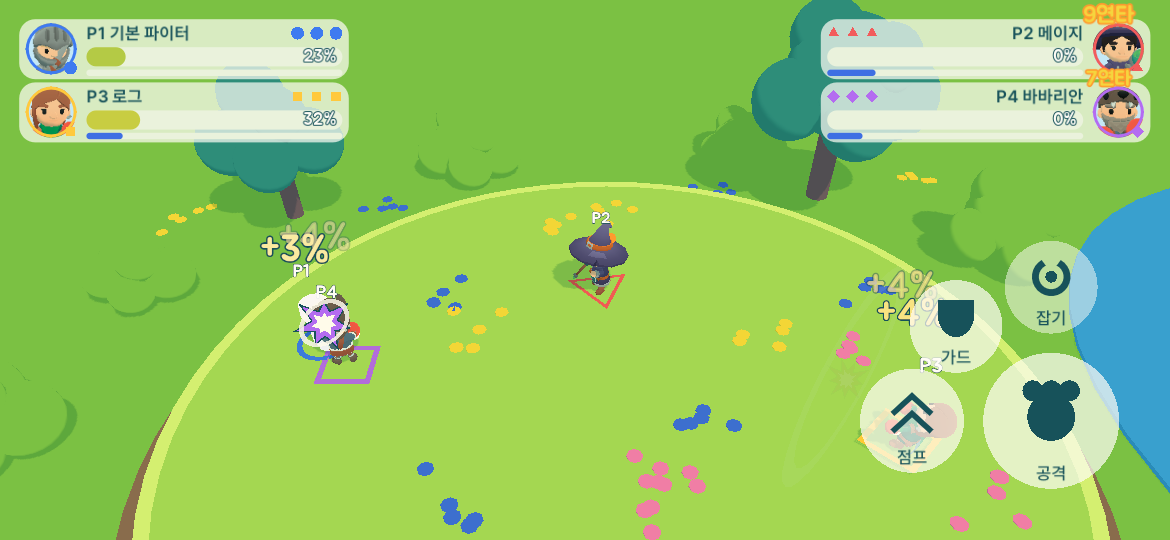
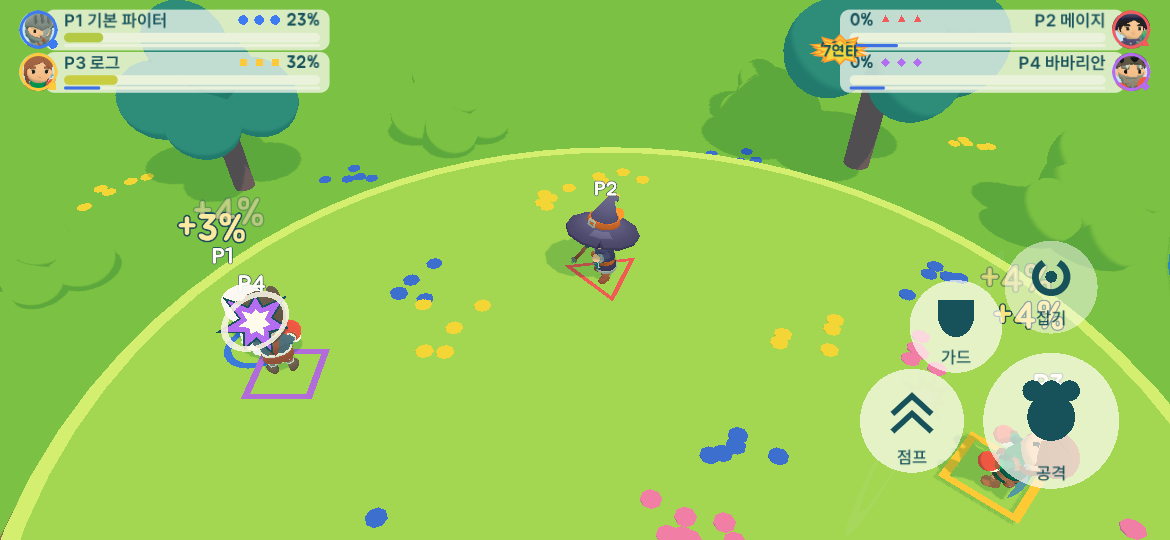
feat: slim GetAmped-style HUD strip and fight-centred framing
Cards: one line (name, pips/score, %), thick damage bar, thin gauge bar,
portrait overlapping the outer edge; vertical team tabs; strip edge gap
s3 -> the strip is ~17.6% of a 720p screen (was ~30%). Combo badge is a
small burst on the card inner corner (away from the portrait). The
camera context anchors now sit around the fight instead of the arena
centre, so fighters are centred and large in the free band; the
HudSafeFrame band math is pinned by test_hud_safe_frame.

diff --git a/docs/design.md b/docs/design.md
@@ -285,7 +285,8 @@
 
 **v2 (2026-10-01, combat-depth D — 사용자 지시, 겟앰프드 HUD 레이아웃 참고 [`references/ref-getamped-hud.png`](./references/ref-getamped-hud.png), 배치만 참고하고 그림·에셋은 우리 것)**:
 - `HudStrip`: 화면 **아래** 가장자리 스트립. 왼쪽 묶음 P1·P3, 오른쪽 묶음 P2·P4(팀전은 팀 1 왼쪽 / 팀 2 오른쪽), 묶음마다 카드 한 줄씩 세로로. 오른쪽 카드는 좌우 반전(초상이 바깥쪽). 1:1은 양쪽에 카드 하나씩
-- 팀전: 묶음 위에 "팀 1" / "팀 2" 알약(`caption`, 팀 색), 카드 테두리·배지가 팀 색
+- 얇은 스트립: 720p에서 화면 높이의 약 18% 이하(2줄 카드 + 가장자리 `s3`). 카드 = 한 줄("P1 바바리안 · 스톡/점수 · 42%", `caption`) + 굵은 대미지 바(`s3`) + 얇은 게이지 바(`s1`), 초상(`s7`)이 카드 바깥 가장자리에 겹침
+- 팀전: 묶음 바깥쪽에 세로 탭 "팀/1" · "팀/2"(`caption`, 팀 색 — 높이를 더하지 않음), 카드 테두리·배지가 팀 색
 - 시간제: 두 묶음 사이 가운데에 `MatchTimer`(시계 아이콘 + 남은 시간, DS-CMP-20)
 - 카드는 `PlayerCard`(DS-CMP-22). 스트립이 화면 폭보다 넓으면 바를 짧게(compact)
 - **터치 조작이 보이는 동안은 스트립을 위쪽 가장자리로** 옮긴다 — 아래 왼쪽 스틱·오른쪽 버튼과 겹치지 않게(줄이기보다 옮기는 쪽: 카드 글자 크기를 지킨다). 키보드 키 바(DS-CMP-16)는 스트립 반대편(데스크톱 = 위쪽)
@@ -367,7 +368,7 @@ v1 (Phase 1~5): 정보는 상단·조작은 하단, `DamageCounter`를 상단에
 | DS-CMP-18 | `CodeInput` | 6자리 인증코드 입력 | idle · focus(다음 칸 링) · error(모든 칸 `danger` 링) · disabled | 숫자 칸 6개 `code_box`(`ui_surface`, `radius_s`, 간격 `s3`), 숫자 `title` 크기 `ui_text`. 숨은 LineEdit가 입력·붙여넣기·숫자 키보드(모바일)를 받고 숫자만 최대 6자리 남긴다 | 4.0 | PRD-AUTH-01 |
 | DS-CMP-20 | `MatchTimer` · `ClockIcon` | 시간제 남은 시간 | 진행 · 마지막 10초(`danger` 글자 + 초마다 통 튐) · 서든 데스("서든 데스" `danger`) | 크림 알약(DamageCounter 판), 코드로 그린 시계(`ui_surface` 판, `ui_text` 테 `s1`, `danger` 분침), 숫자 `display_l` Jua + `canopy_deep` 외곽선 | 5 (combat-depth D) | PRD-RULE-06 |
 | DS-CMP-21 | `ScoreBadge` | 시간제 점수 (카드에서 스톡 대신) | 기본 · 변경(통 튐) · 음수(`danger`) | "3점" `title` Jua, `canopy_deep` 외곽선 | 5 (combat-depth D) | PRD-RULE-06 |
-| DS-CMP-22 | `PlayerCard` (`CardBar` · `PortraitBadge`) | HUD 스트립의 플레이어 카드 (DS-LAY-02 v2) | 기본 · KO(흐림 40%) · 팀전(팀 색 테두리) · 게이지 가득(파란 바 깜빡임) · "N연타" 배지(같은 대상 1초 안 연속 적중 2회부터, 초상 위 모서리에 통 튐) | `ui_surface` 70% `radius_m` 카드, 바깥쪽 원형 초상(`s8`, 캐릭터 머리 3D 한 번 그림 + 플레이어/팀 색 테 + 모양 배지), "P1 바바리안"(`caption`) + 스톡 점(`s4`) 또는 점수, 굵은 대미지 바(`s5`, 대미지 바 램프, % 숫자 `caption` Jua), 얇은 게이지 바(`s2`, `gauge_bar`), 연타 배지 `body` Jua `petal_yellow` + `fire` 외곽선 | 5 (combat-depth D) | PRD-UI-01, PRD-RULE-06, PRD-STYLE-04 |
+| DS-CMP-22 | `PlayerCard` (`CardBar` · `PortraitBadge`) | HUD 스트립의 플레이어 카드 (DS-LAY-02 v2) | 기본 · KO(흐림 40%) · 팀전(팀 색 테두리) · 게이지 가득(파란 바 깜빡임) · "N연타" 배지(같은 대상 1초 안 연속 적중 2회부터, 카드 안쪽 위 모서리 — 초상 반대편 — 에 통 튐, 위쪽 스트립에서는 아래 모서리) | `ui_surface` 70% `radius_s` 얇은 카드, 바깥 가장자리에 겹친 원형 초상(`s7`, 캐릭터 머리 3D 한 번 그림 + 플레이어/팀 색 테 + 모양 배지), 한 줄 "P1 바바리안 · 스톡 점(`s3`)/점수 · 42%"(`caption`, %는 50%부터 램프 색), 굵은 대미지 바(`s3`, 대미지 바 램프), 얇은 게이지 바(`s1`, `gauge_bar`), 연타 배지 = 뾰족한 별(`petal_yellow` + `fire` 테) 위 `caption` Jua | 5 (combat-depth D) | PRD-UI-01, PRD-RULE-06, PRD-STYLE-04 |
 | DS-CMP-19 | `TutorialCard` · `TutorialSkipDialog` | 온보딩 튜토리얼 미션 안내 · 건너뛰기 확인 | 카드: mission · success("좋아요!", `motion_squish` 통 튐) · complete("튜토리얼 완료!" + primary "타이틀로") / 확인창: 닫힘 · 열림(일시정지) | 카드 = `Panel`(DS-CMP-07) 폭 760, 위쪽 가운데 safe area `s5`: 캡션 "튜토리얼 · n/8"(`caption` `ui_text_soft`) + secondary `MenuButton` "건너뛰기"(높이 `s7`, 포커스 안 받음 — Space가 점프), 제목(`title` Jua), 안내 한 줄(`body`, 줄바꿈). 확인창 = 전체 `ui_shadow` 막(터치 컨트롤 위 레이어, 입력 차단) + 가운데 `Panel`: 제목 "튜토리얼을 건너뛸까요?"(`title`) · 다시 보기 안내(`body` `ui_text_soft`) · secondary "계속하기"(포커스) · primary "건너뛰기", `pop_in` | 5 | PRD-UI-02 |
 
 `SelectCard` 구현 (Phase 4 T7, 2026-09-30): `ui_surface` 카드(`radius_l`, `shadow_soft`, 너비 `card_width` 320) 안에 코드로 그린 위에서 본 디오라마 썸네일(`ArenaThumb`, 높이 `card_thumb_height` 200: 바깥 초원·링아웃 물·흙 띠 위 바닥·나무 고리·기믹 표시, 경기장 테마 색) · `title` 이름 · `caption` 한 줄 설명(`ui_text_soft`) · 기믹 아이콘(`GimmickIcon` `card_icon` 48: 물·불·균열·튕김·안개). focus = `petal_yellow` 링 + ×1.04, selected = `ring_color` 링(경기장은 `ui_accent`, Phase 5 캐릭터는 플레이어 색) + ×1.07, locked = `ui_surface_dim` + "준비 중". 경기장 선택 화면: 제목 위, 카드 4장 아래 한 줄, "뒤로" + 조작 안내(←/→ · Z/Enter · X/Esc), 호버 = 포커스, 클릭·탭 = 확정
@@ -503,7 +504,7 @@ v1 (Phase 1~5): 정보는 상단·조작은 하단, `DamageCounter`를 상단에
 | GD-FEEL-02 | 화면 흔들림 | 진폭 = min(k × `shake_per_knockback`, `shake_max`), 지수 감쇠. hitstop이 끝날 때 시작 | `shake_per_knockback`, `shake_max`, `shake_decay` |
 | GD-FEEL-03 | 무적 깜빡임 | 리스폰 무적 동안 반투명 펄스 10Hz, 마지막 0.5초는 20Hz | `blink_hz`, `blink_hz_end` |
 | GD-FEEL-04 | 넉백 궤적 강도 | DS-VFX-04 강도 = 속도 / `trail_speed_full` | `trail_speed_threshold`, `trail_speed_full` |
-| GD-CAM-01 | 카메라 | 겟앰프드식 근접 3/4 부감(피치 42°, 최소 거리 7 m, 여백 1.5 m), 경기장 중심부(반지름 × `cam_arena_share`, 기본 20%)와 모든 생존 전투원을 프레이밍(전투원이 멀어지거나 밖으로 날아가면 시야가 넓어진다. 2026-09-30 경기장 전체 → 60%, 2026-10-01 사용자 요청으로 캐릭터가 크게 보이도록 C안 근접 채택), 줌 최소·최대 제한, 스무딩. KO된 전투원은 추적 제외. **필살기 컷인 (Phase 5, 렌더 전용)**: sim `special_start`가 오면 시전자 가슴 높이로 완전 확대(거리 7 m, 피치 38°로 낮춤) — 들어가기 `motion_base`(out-quad) → 유지(필살기 sim 길이 − 들어가기, `motion_slow`~`motion_calm`×2 사이) → 복귀 `motion_slow`(in-out-cubic). 그동안 시전자는 캐릭터별 필살기 모션(GD-ANIM-01), 확대된 시전자(화면 중앙) 발밑 아래 — 화면 84% 높이 — 에 시전자 플레이어 색 띠(88%, `s8`+`s5` 높이) + `glow` 줄 2개 + "P1 · 대지 강타"(`display_l`, `ui_surface` 글자·`canopy_deep` 외곽선)가 옆에서 밀려 들어온다(시전자·P 라벨·상단 HUD를 가리지 않고, 터치 버튼은 위 레이어). 확대 중 화면 밖·카메라 뒤 전투원의 충전 게이지는 숨긴다. 슬로우모션 없음(sim 틱·리플레이 해시 불변). 두 번째 필살기는 현재 확대에서 이어서 새 시전자로 초점을 부드럽게 옮기고(`FOCUS_FOLLOW`, 튀지 않음), 시전자가 KO면 마지막 위치에서 바로 복귀. `[accessibility] reduce_motion`(SettingsStore, 경기 시작마다 다시 읽음)이면 카메라는 그대로, 띠는 페이드만 **HUD 피해 프레이밍 (combat-depth D, 렌더 전용)**: HUD 스트립(과 위쪽 키 바)이 덮는 화면 높이 비율을 비워 두고 남은 띠 안에 대상을 맞춘다 — 같은 `cam_fov`를 유지하는 비대칭(오프셋) 프러스텀(`HudSafeFrame`, 최대 45%). 대상에는 전투원 발과 함께 머리 위 라벨 꼭대기(키 + 0.9 m)도 들어가 라벨·대미지 숫자가 화면 가장자리나 HUD에 잘리지 않는다 | `cam_pitch`, `cam_margin`, `cam_arena_share`, `cam_zoom_min/max`, `cam_smooth`, `cam_hud_reserve`(1 = HUD 높이만큼 비움, 0 = 끔) · 컷인 `SpecialCutIn` 상수 |
+| GD-CAM-01 | 카메라 | 겟앰프드식 근접 3/4 부감(피치 42°, 최소 거리 7 m, 여백 1.5 m), 경기장 중심부(반지름 × `cam_arena_share`, 기본 20%)와 모든 생존 전투원을 프레이밍(전투원이 멀어지거나 밖으로 날아가면 시야가 넓어진다. 2026-09-30 경기장 전체 → 60%, 2026-10-01 사용자 요청으로 캐릭터가 크게 보이도록 C안 근접 채택), 줌 최소·최대 제한, 스무딩. KO된 전투원은 추적 제외. **필살기 컷인 (Phase 5, 렌더 전용)**: sim `special_start`가 오면 시전자 가슴 높이로 완전 확대(거리 7 m, 피치 38°로 낮춤) — 들어가기 `motion_base`(out-quad) → 유지(필살기 sim 길이 − 들어가기, `motion_slow`~`motion_calm`×2 사이) → 복귀 `motion_slow`(in-out-cubic). 그동안 시전자는 캐릭터별 필살기 모션(GD-ANIM-01), 확대된 시전자(화면 중앙) 발밑 아래 — 화면 84% 높이 — 에 시전자 플레이어 색 띠(88%, `s8`+`s5` 높이) + `glow` 줄 2개 + "P1 · 대지 강타"(`display_l`, `ui_surface` 글자·`canopy_deep` 외곽선)가 옆에서 밀려 들어온다(시전자·P 라벨·상단 HUD를 가리지 않고, 터치 버튼은 위 레이어). 확대 중 화면 밖·카메라 뒤 전투원의 충전 게이지는 숨긴다. 슬로우모션 없음(sim 틱·리플레이 해시 불변). 두 번째 필살기는 현재 확대에서 이어서 새 시전자로 초점을 부드럽게 옮기고(`FOCUS_FOLLOW`, 튀지 않음), 시전자가 KO면 마지막 위치에서 바로 복귀. `[accessibility] reduce_motion`(SettingsStore, 경기 시작마다 다시 읽음)이면 카메라는 그대로, 띠는 페이드만 **HUD 피해 프레이밍 (combat-depth D, 렌더 전용)**: HUD 스트립(과 위쪽 키 바)이 덮는 화면 높이 비율을 비워 두고 남은 띠 안에 대상을 맞춘다 — 같은 `cam_fov`를 유지하는 비대칭(오프셋) 프러스텀(`HudSafeFrame`, 최대 45%). 경기장 중심부 앵커(반지름 × `cam_arena_share`)는 2026-10-01부터 **싸움의 중심**(살아 있는 전투원 범위의 가운데)에 놓여, 전투원이 빈 띠 가운데 오고 한쪽에 몰려도 크게 보인다. 대상에는 전투원 발과 함께 머리 위 라벨 꼭대기(키 + 0.9 m)도 들어가 라벨·대미지 숫자가 화면 가장자리나 HUD에 잘리지 않는다 | `cam_pitch`, `cam_margin`, `cam_arena_share`, `cam_zoom_min/max`, `cam_smooth`, `cam_hud_reserve`(1 = HUD 높이만큼 비움, 0 = 끔) · 컷인 `SpecialCutIn` 상수 |
 | GD-ANIM-01 | 애니메이션 매핑 | sim 상태 → 애니 상태 1:1. 애니가 sim 타이밍을 바꾸지 않는다 (히트박스 활성 프레임은 sim이 결정, 애니는 맞춰 재생). SPECIAL은 필살기 id별 모션: 대지 강타 = 양손 내려찍기, 돌진 연타 = 쌍검 찌르기(반복), 회전 베기 = 회전(반복), 거대 화염구 = 주문 발사 | — |
 
 ---
